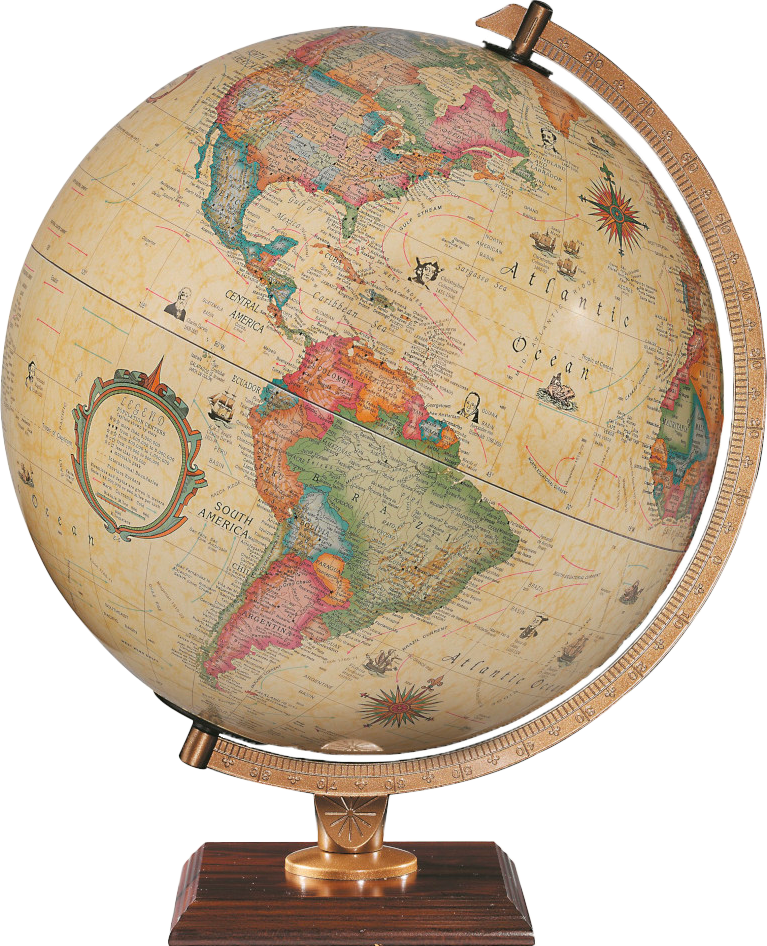
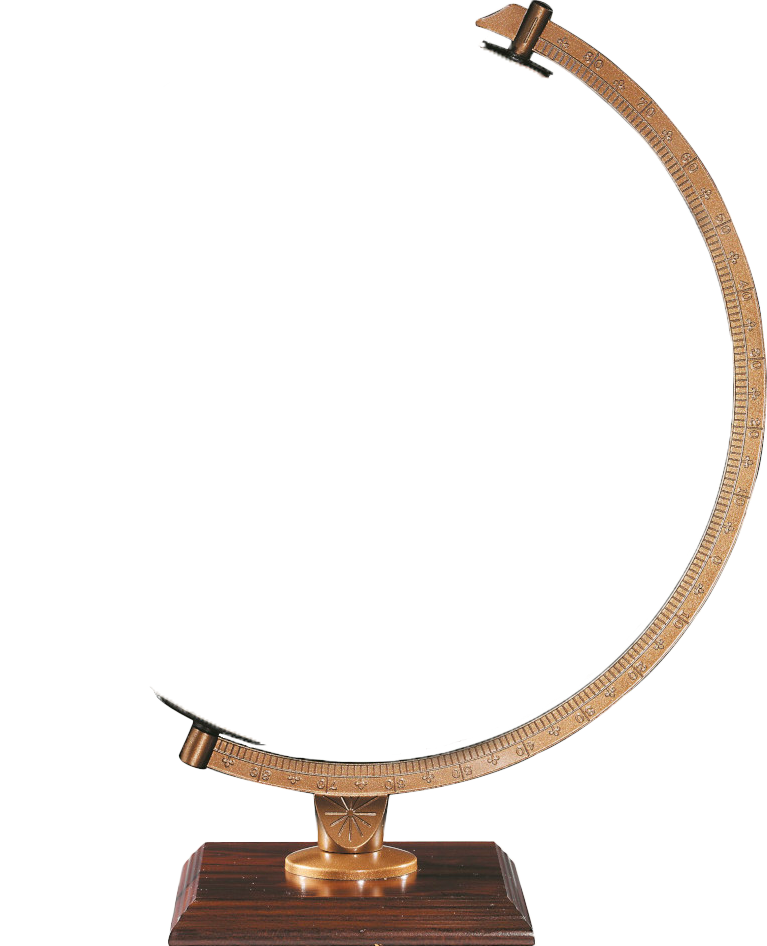
style: centrer carte

diff --git a/nature/main/static/main/assets/scripts/mini_map.js b/nature/main/static/main/assets/scripts/mini_map.js
@@ -28,6 +28,10 @@ function showMiniMap(lat, lon) {
 
             L.marker([lat, lon]).addTo(miniMap);
         }
+
+        setTimeout(() => {
+            miniMap.invalidateSize();
+        }, 0);
     } else {
         miniMapContainer.style.display = "none";
     }
@@ -50,5 +54,9 @@ document.addEventListener("DOMContentLoaded", () => {
 
     toggleMapSize.addEventListener("click", () => {
         miniMapContainer.classList.toggle("expanded");
+        setTimeout(() => {
+            miniMap?.invalidateSize();
+        }, 0);
     });
+
 });